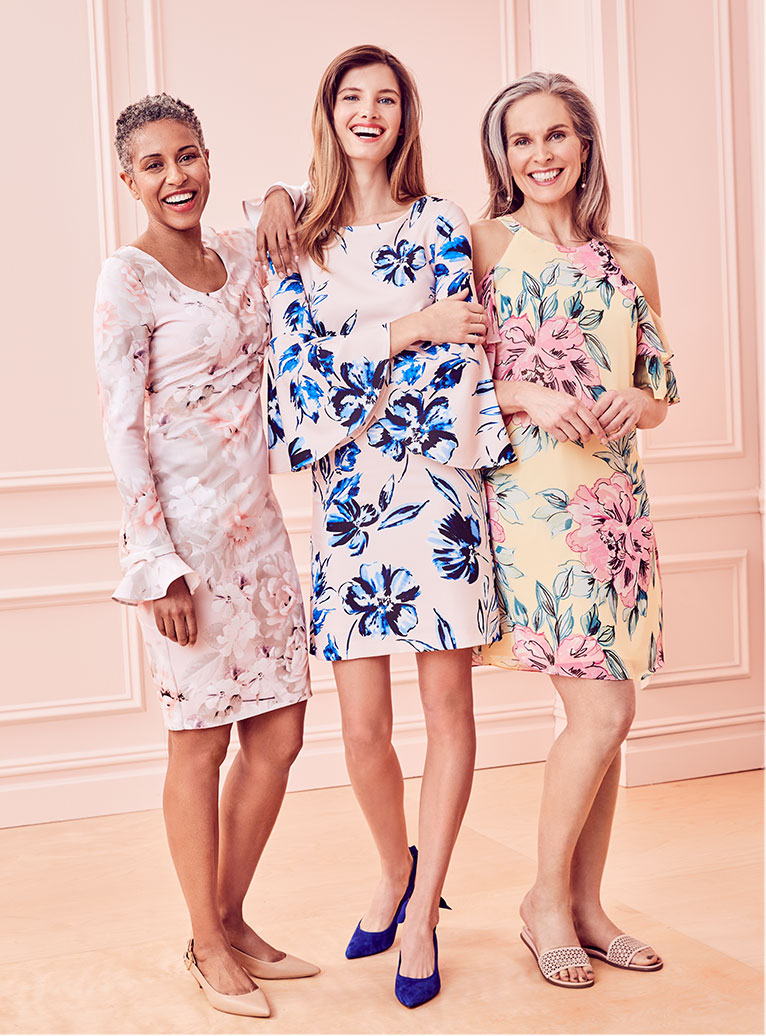
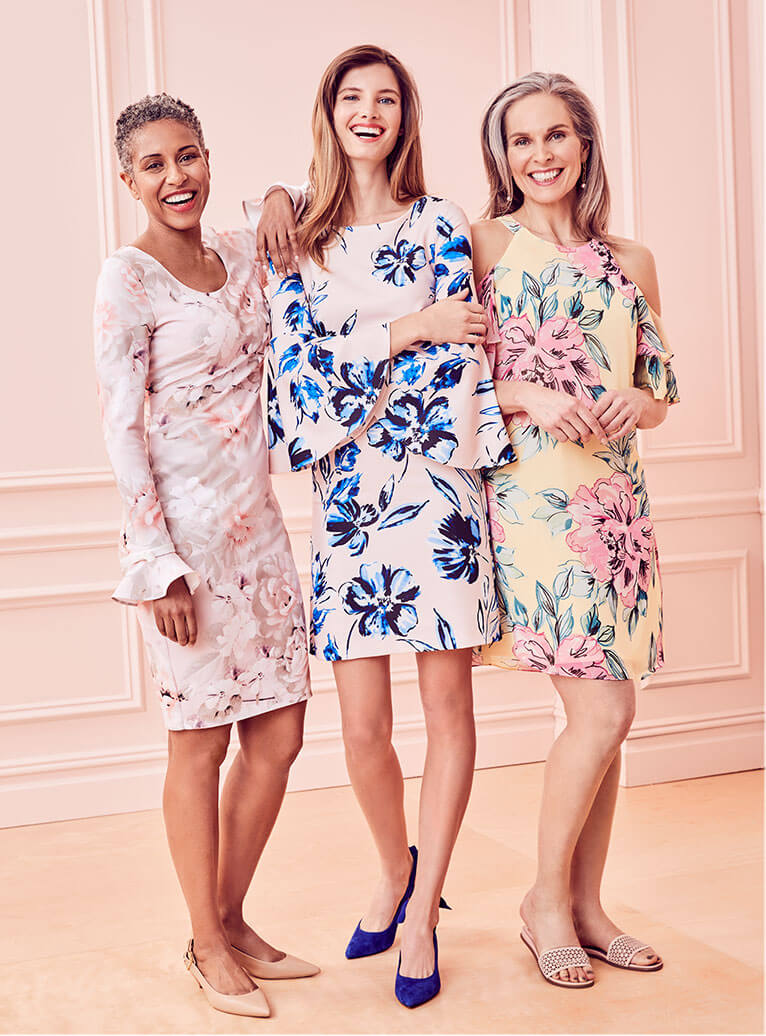
optimized images and other stuff

diff --git a/main.js b/main.js
@@ -1,64 +1,63 @@
 $(document).ready(function(){
 	init();
 });
-
 function init() {
 	console.log('init');
 	var t = TweenMax;
 	var tl = new TimelineMax({ paused : true });
-
 	var frameNum = 1;
-
 	var arrowLeft = $('.arrowLeft');
 	var arrowRight = $('.arrowRight');
 	var cta = $('div .cta');
-
 	var frames = $('#frame1, #frame2, #frame3, #frame4, #frame5');
-
+	var theFrame;
 	t.set(frames, {autoAlpha:0});
 	t.set('#frame1', {autoAlpha:1})
-
+	function frameIn(frameNum) {
+		theFrame = $('#frame' + frameNum + ' div');
+		t.staggerFrom(theFrame, 0.9, {opacity:0, ease:Expo.easeOut}, 0.1);
+	}
 	function handleRightClick() {
 		t.killAll();
 		$('.square').css({ opacity : 0.35 });
 		t.set('.frame', {autoAlpha:0});
-
 		console.log('RIGHT CLICK');
 		switch (frameNum) {
 		  case 1:
 		  t.to('.square2', 0.2, {opacity:1});
 		  t.to('#frame2', 0.2, {autoAlpha:1});
-
+		  //frameIn($('#frame2 div'));
 	  	  frameNum = 2;
+	  	  frameIn(frameNum);
 	  	  break;
 	  	  case 2:
 	  	  t.to('.square3', 0.2, {opacity:1});
 		  t.to('#frame3', 0.2, {autoAlpha:1});
-
+		  //frameIn($('#frame3 div'));
 	  	  frameNum = 3;
+	  	  frameIn(frameNum);
 	  	  break;
 	  	  case 3:
 	  	  t.to('.square4', 0.2, {opacity:1});
 		  t.to('#frame4', 0.2, {autoAlpha:1});
-
 	  	  frameNum = 4;
+	  	  frameIn(frameNum);
 	  	  break;
 	  	  case 4:
 	  	  t.to('.square5', 0.2, {opacity:1});
 		  t.to('#frame5', 0.2, {autoAlpha:1});
-
 	  	  frameNum = 5;
+	  	  frameIn(frameNum);
 	  	  break;
 	  	  case 5:
 	  	  t.to('.square1', 0.2, {opacity:1});
 		  t.to('#frame1', 0.2, {autoAlpha:1});
-
 	  	  frameNum = 1;
+	  	  frameIn(frameNum);
 	  	  break;
 		}
 		console.log(frameNum);
 	}
-
 	function handleLeftClick() {
 		t.killAll();
 		$('.square').css({ opacity : 0.35 });
@@ -68,37 +67,36 @@ function init() {
 		  case 1:
 		  t.to('.square5', 0.2, {opacity:1});
 		  t.to('#frame5', 0.2, {autoAlpha:1});
-
 	  	  frameNum = 5;
+	  	  frameIn(frameNum);
 	  	  break;
 	  	  case 5:
 	  	  t.to('.square4', 0.2, {opacity:1});
 	  	  t.to('#frame4', 0.2, {autoAlpha:1});
-
 	  	  frameNum = 4;
+	  	  frameIn(frameNum);
 	  	  break;
 	  	  case 4:
 	  	  t.to('.square3', 0.2, {opacity:1});
 	  	  t.to('#frame3', 0.2, {autoAlpha:1});
-
 	  	  frameNum = 3;
+	  	  frameIn(frameNum);
 	  	  break;
 	  	  case 3:
 	  	  t.to('.square2', 0.2, {opacity:1});
 	  	  t.to('#frame2', 0.2, {autoAlpha:1});
-
 	  	  frameNum = 2;
+	  	  frameIn(frameNum);
 	  	  break;
 	  	  case 2:
 	  	  t.to('.square1', 0.2, {opacity:1});
 	  	  t.to('#frame1', 0.2, {autoAlpha:1});
-
 	  	  frameNum = 1;
+	  	  frameIn(frameNum);
 	  	  break;
 		}
 		console.log(frameNum);
 	}
-
 	function handleSquareClick(e) {
 		$('.square').css({ opacity : 0.35 });
 		t.set('.frame', {autoAlpha:0});
@@ -107,37 +105,36 @@ function init() {
 		  case 'square1':
 		  t.to('.square1', 0.2, {opacity:1});
 		  t.to('#frame1', 0.2, {autoAlpha:1});
-
 	  	  frameNum = 1;
+	  	  frameIn(frameNum);
 	  	  break;
 	  	  case 'square2':
 	  	  t.to('.square2', 0.2, {opacity:1});
 	  	  t.to('#frame2', 0.2, {autoAlpha:1});
-
 	  	  frameNum = 2;
+	  	  frameIn(frameNum);
 	  	  break;
 	  	  case 'square3':
 	  	  t.to('.square3', 0.2, {opacity:1});
 	  	  t.to('#frame3', 0.2, {autoAlpha:1});
-
 	  	  frameNum = 3;
+	  	  frameIn(frameNum);
 	  	  break;
 	  	  case 'square4':
 	  	  t.to('.square4', 0.2, {opacity:1});
 	  	  t.to('#frame4', 0.2, {autoAlpha:1});
-
 	  	  frameNum = 4;
+	  	  frameIn(frameNum);
 	  	  break;
 	  	  case 'square5':
 	  	  t.to('.square5', 0.2, {opacity:1});
 	  	  t.to('#frame5', 0.2, {autoAlpha:1});
-
 	  	  frameNum = 5;
+	  	  frameIn(frameNum);
 	  	  break;
 		}
 		console.log(frameNum);
 	}
-
 	$('.square').mouseover(function(){
 		t.to(this, 0.1, {scale:2.0, ease:Power2.easeOut});
 	}).mouseout(function(){
@@ -145,7 +142,6 @@ function init() {
 	}).click(function(e){
 		handleSquareClick(e);
 	});
-
 	$(arrowLeft).mouseover(function(){
 		t.to(this, 0.1, {scale:1.2, ease:Power2.easeOut});
 	}).mouseout(function(){
@@ -153,7 +149,6 @@ function init() {
 	}).click(function(){
 		handleLeftClick();
 	});
-
 	$(arrowRight).mouseover(function(){
 		t.to(this, 0.1, {scale:1.2, ease:Power2.easeOut});
 	}).mouseout(function(){
@@ -161,7 +156,6 @@ function init() {
 	}).click(function(){
 		handleRightClick();
 	});
-
 	$(cta).mouseover(function(e){
 		console.log(e);
 		t.to(this, 0.3, {scale:1.2, backgroundColor:'#e22d8b', ease:Power2.easeOut});
@@ -170,41 +164,5 @@ function init() {
 	}).click(function(){
 		//handleRightClick();
 	});
-
-
-
-
 }
-
-
-
-
-
-
-
-
-
-
-
-
-
-
-
-
-
-
-
-
-
-
-
-
-
-
-
-
-
-
-
-
 //

diff --git a/index.html b/index.html
@@ -16,8 +16,8 @@
 			<div class="centerImage"></div>
 			<div class="rightImage"></div>
 			<div class="videoHolder"></div>
-			<div class="cta cta1"></div>
-			<div class="cta cta2"></div>
+			<div class="cta cta1" id="cta_shopJeanJackets"></div>
+			<div class="cta cta2" id="cta_shopJeans"></div>
 		</div>
 
 		<div id="frame2" class="frame frame2">
@@ -25,7 +25,7 @@
 			<div class="centerImage"></div>
 			<div class="rightImage"></div>
 			<div class="videoHolder"></div>
-			<div class="cta cta1"></div>
+			<div class="cta cta1" id="cta_shopNow_activewear"></div>
 		</div>
 
 		<div id="frame3" class="frame frame3">
@@ -33,7 +33,7 @@
 			<div class="centerImage"></div>
 			<div class="rightImage"></div>
 			<div class="videoHolder"></div>
-			<div class="cta cta1"></div>
+			<div class="cta cta1" id="cta_shopNow_dresses"></div>
 		</div>
 
 		<div id="frame4" class="frame frame4">
@@ -41,16 +41,16 @@
 			<div class="centerImage"></div>
 			<div class="rightImage"></div>
 			<div class="videoHolder"></div>
-			<div class="cta cta1"></div>
-			<div class="cta cta2"></div>
+			<div class="cta cta1" id="cta_shopShoes"></div>
+			<div class="cta cta2" id="cta_shopHandbags"></div>
 		</div>
 
 		<div id="frame5" class="frame frame5">
 			<div class="headline"><img src="headline5.png" alt="headline5"></div>
 			<div class="centerImage"></div>
 			<div class="rightImage"></div>
-			<div class="cta cta1"></div>
-			<div class="cta cta2"></div>
+			<div class="cta cta1" id="cta_shopActivewear"></div>
+			<div class="cta cta2" id="cta_shopDenim"></div>
 		</div>
 
 		<div class="nav">

diff --git a/main.scss b/main.scss
@@ -286,6 +286,7 @@ img {
 		@include portrait {
 			background-size: 80%;
 		}
+
 	}
 
 	.cta2 {
@@ -310,6 +311,7 @@ img {
 		@include portrait {
 			background-size: 80%;
 		}
+
 	}
 }
 
@@ -327,6 +329,7 @@ img {
 		@include portrait {
 			background-size: 80%;
 		}
+
 	}
 }
 
@@ -344,6 +347,7 @@ img {
 		@include portrait {
 			background-size: 80%;
 		}
+
 	}
 
 	.cta2 {
@@ -351,6 +355,7 @@ img {
 		@include portrait {
 			background-size: 80%;
 		}
+
 	}
 }
 
@@ -379,6 +384,7 @@ img {
 			top: 410 / 2048 * 100%;
 			background-size: 80%;
 		}
+
 	}
 
 	.cta2 {
@@ -389,12 +395,7 @@ img {
 			background-size: 80%;
 		}
 
-	}
-}
 
-.cta {
-	@include mobile {
-		background-size: 100%;
 	}
 }
 

diff --git a/main.css b/main.css
@@ -414,12 +414,6 @@ img {
   }
 }
 
-@media all and (orientation: portrait) and (max-device-width: 767px) {
-  .cta {
-    background-size: 100%;
-  }
-}
-
 #frame1 {
   opacity: 1;
 }
